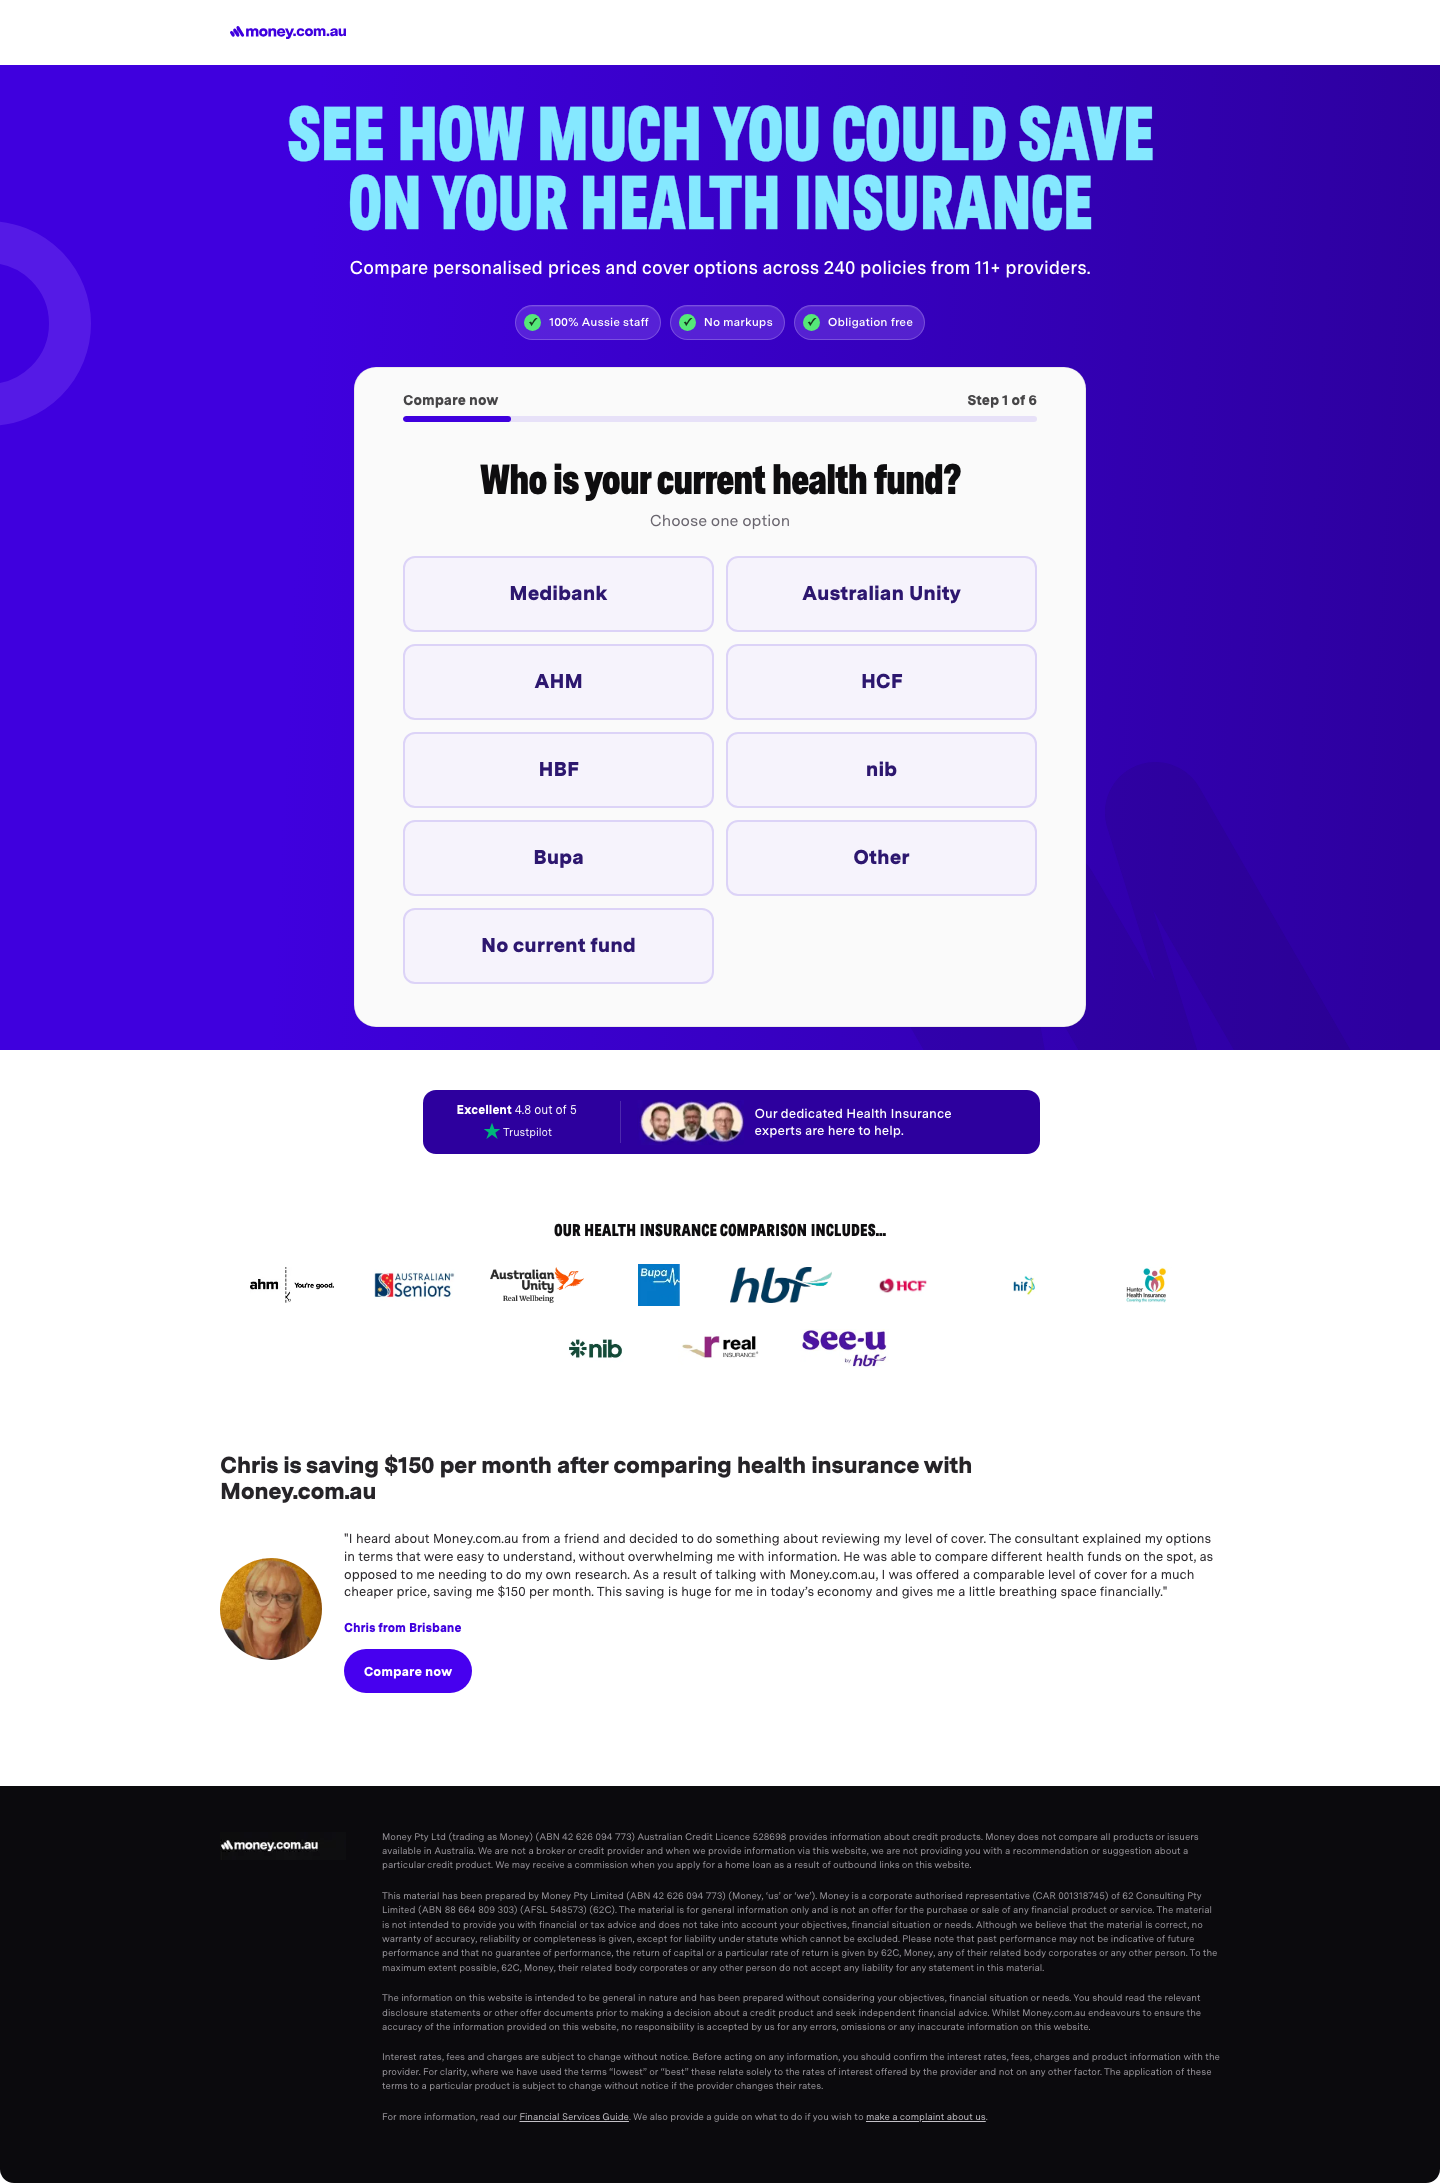
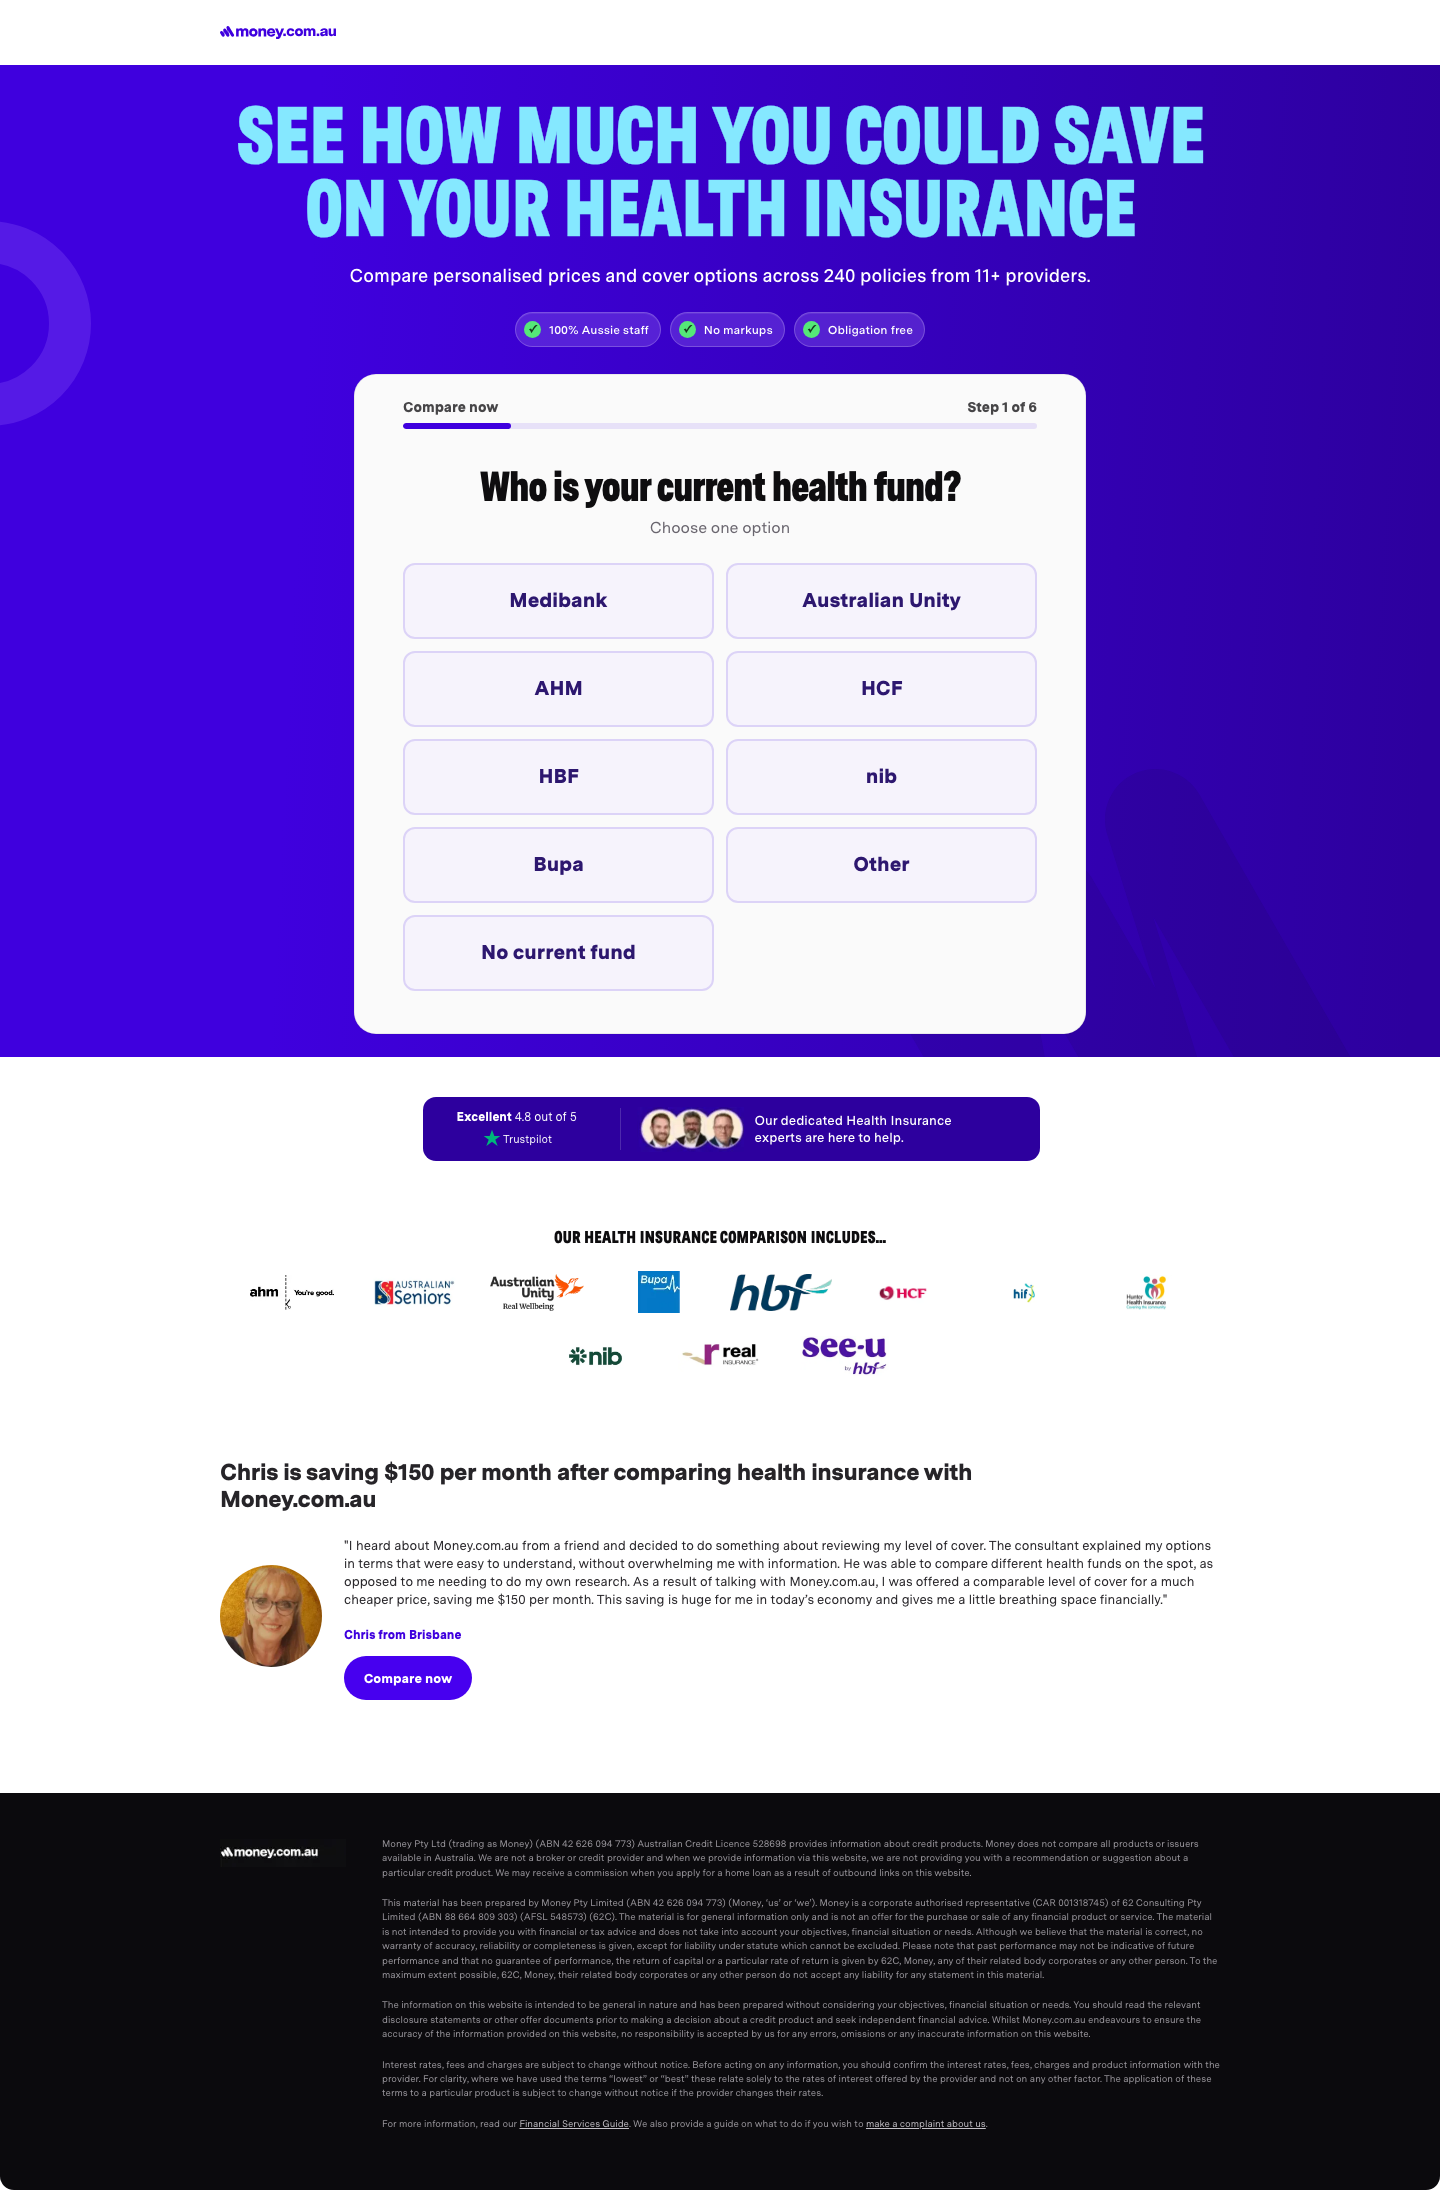
Align desktop content with headline margins

diff --git a/src/components/health-insurance/health-insurance.module.css b/src/components/health-insurance/health-insurance.module.css
@@ -487,12 +487,26 @@
 }
 
 @media (min-width: 1024px) {
+  .headerInner {
+    width: var(--desktop-content-rail);
+    max-width: var(--desktop-content-rail);
+    padding-right: 0;
+    padding-left: 0;
+  }
+
   .heroTitle,
   .providers,
   .testimonial,
   .footerInner {
     width: var(--desktop-content-rail);
     max-width: var(--desktop-content-rail);
+  }
+}
+
+@media (min-width: 1100px) {
+  .heroTitle {
+    font-size: 80px;
+    transform: none;
   }
 }
 
